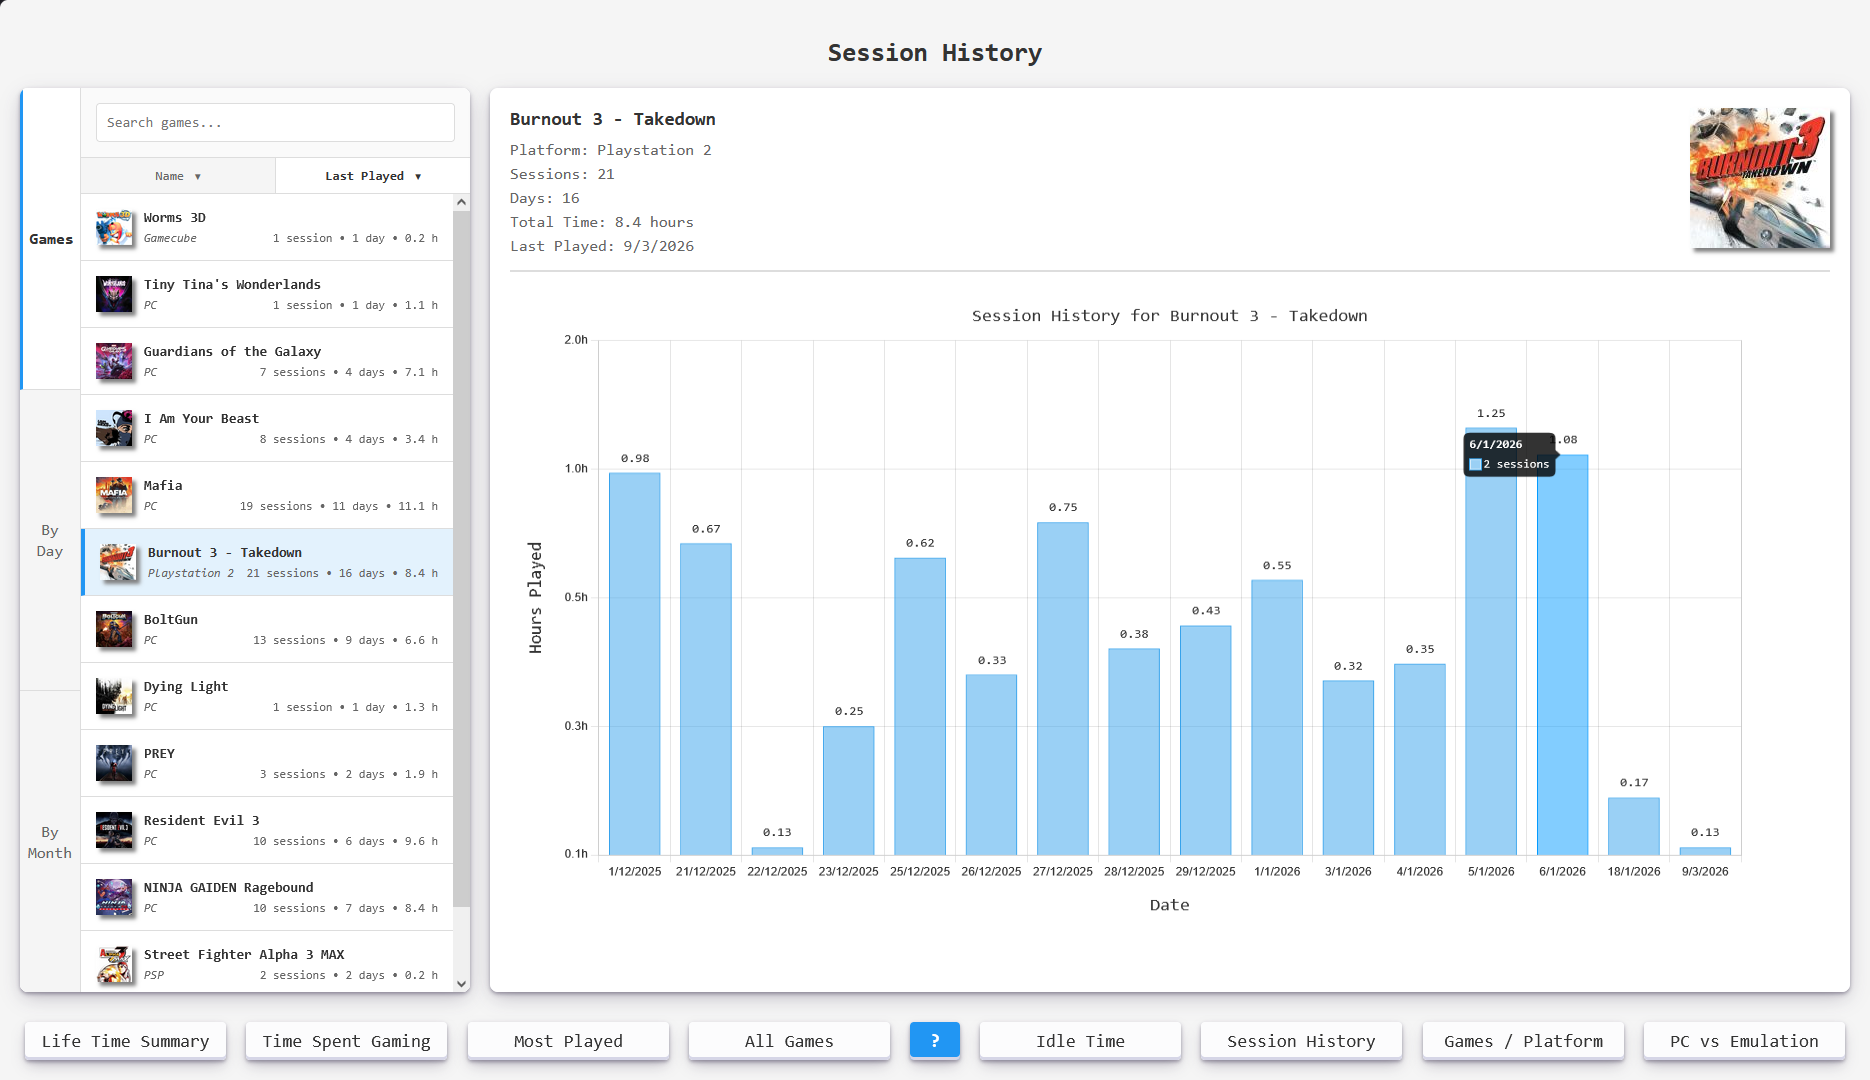
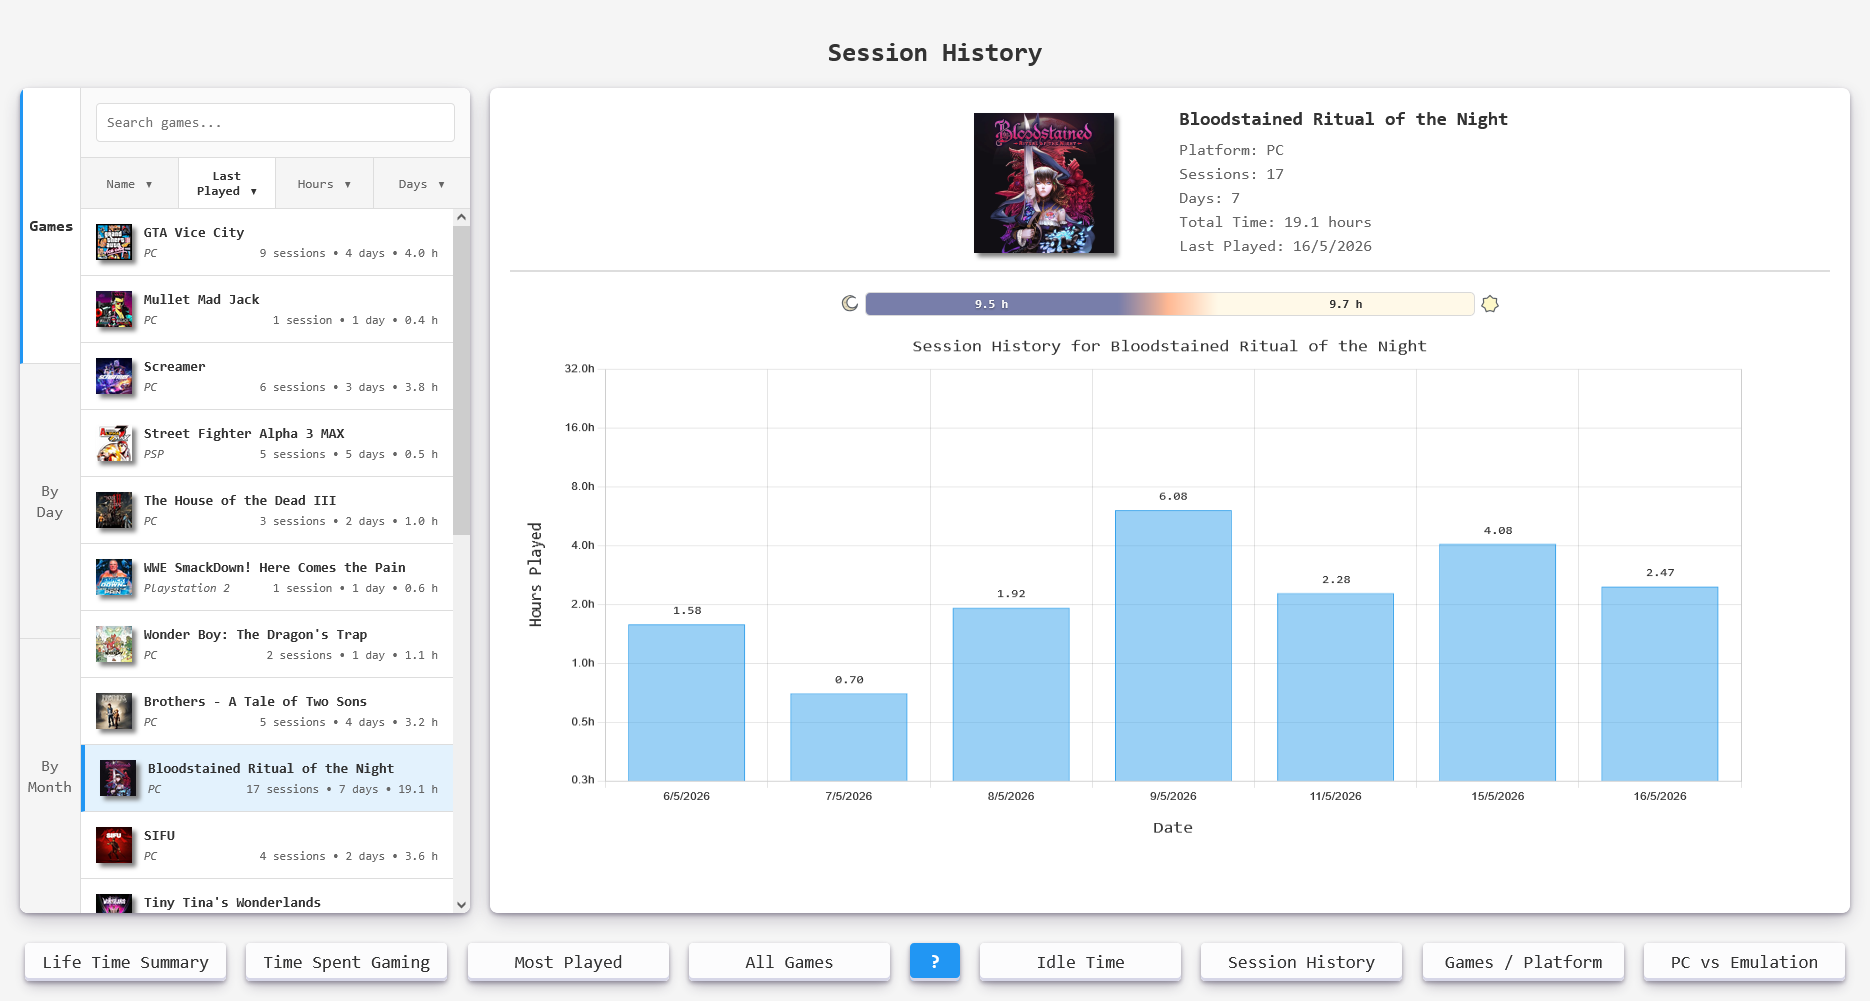
Update showcase craousel on github-pages

diff --git a/github-pages/src/resources/style.css b/github-pages/src/resources/style.css
@@ -470,6 +470,7 @@ a:hover { text-decoration: underline; }
     color: var(--muted);
     text-decoration: none;
     transition: color 0.2s;
+    margin-top: 5px;
 }
 .github-link:hover { color: var(--accent); text-decoration: none; }
 